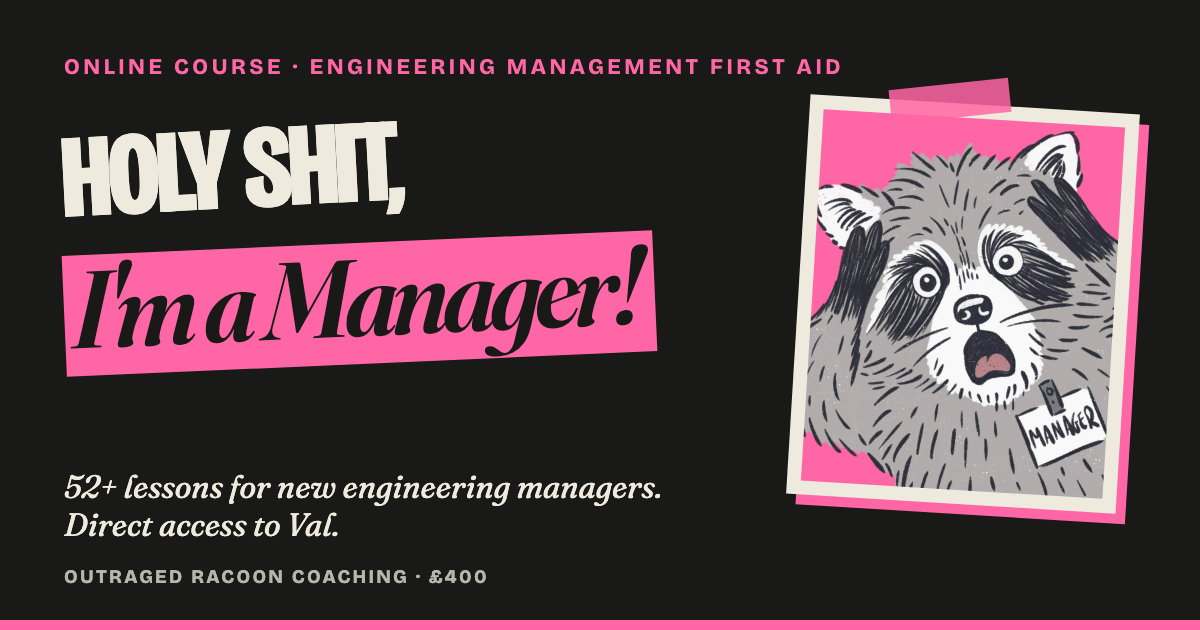
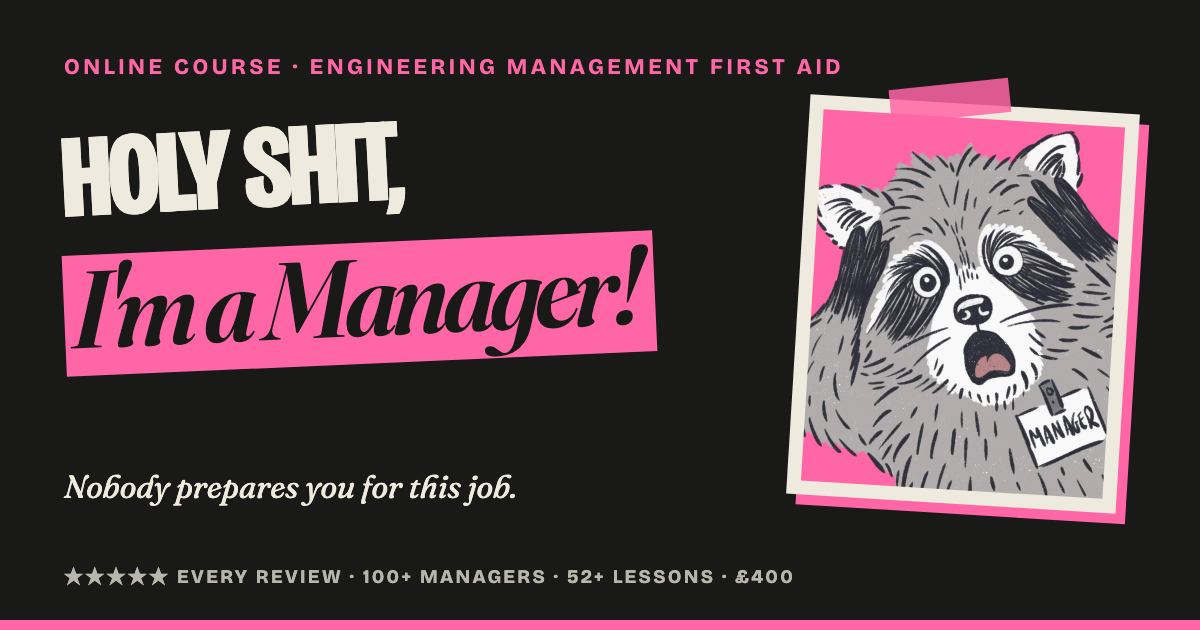
Course: punchier OG card and description from site copy

Changed region(s): [[0.0308, 0.754, 0.555, 0.8746], [0.0308, 0.9048, 0.6783, 0.9349], [0.3083, 0.0905, 0.3392, 0.1206]]

diff --git a/pages/holy-shit-im-a-manager.html b/pages/holy-shit-im-a-manager.html
@@ -8,7 +8,7 @@ image: /assets/images/og/course.png
 title: "Holy Shit, I'm a Manager! Engineering Management First Aid"
 display_title: "Holy Shit, I'm a Manager!"
 title_sub: Engineering management first aid
-description: "Self-paced, text-only course for new engineering managers. 52+ lessons on 1:1s, feedback and managing up, with direct access to Val. Five-star reviews only."
+description: "Nobody prepares you for this job. 52+ lessons on 1:1s, feedback and managing up, no videos. Five stars from every one of 100+ managers. Ask actual Val."
 schema_offers:
   - name: "Holy Shit, I'm a Manager! Full Course"
     description: "52+ text-based lessons, hands-on activities, direct access to Val via Slack and forums, certificate, unlimited* access. One-time payment."

diff --git a/_og/build.py b/_og/build.py
@@ -16,7 +16,7 @@ PAGES = [
   dict(slug="home", kicker="1:1 coaching · for the hard parts of tech", l1="No-bullshit", l2="coaching", sub="for engineering managers and folks in tech.", img="scream", foot="Val Dryden · VP Engineering · ILM executive coach"),
   dict(slug="engineering-managers", kicker="Coaching · engineering managers", l1="Engineering managers", size="84", l2="coaching", sub="Because there's no undo button for people.", img="hsiam", foot="Val Dryden · VP Engineering · ILM executive coach"),
   dict(slug="folks-in-tech", kicker="Coaching · folks in tech", l1="Coaching for", l2="folks in tech", sub="More power, more credit, less bullshit.", img="scream", foot="Val Dryden · VP Engineering · ILM executive coach"),
-  dict(slug="course", kicker="Online course · engineering management first aid", l1="Holy shit,", l2="I'm a Manager!", sub="52+ lessons for new engineering managers. Direct access to Val.", img="hsiam", foot="Outraged Racoon Coaching · £400"),
+  dict(slug="course", kicker="Online course · engineering management first aid", l1="Holy shit,", l2="I'm a Manager!", sub="Nobody prepares you for this job.", img="hsiam", foot="★★★★★ Every review · 100+ managers · 52+ lessons · £400"),
 ]
 TPL = (root/"_og/template.html").read_text()
 for p in PAGES:
